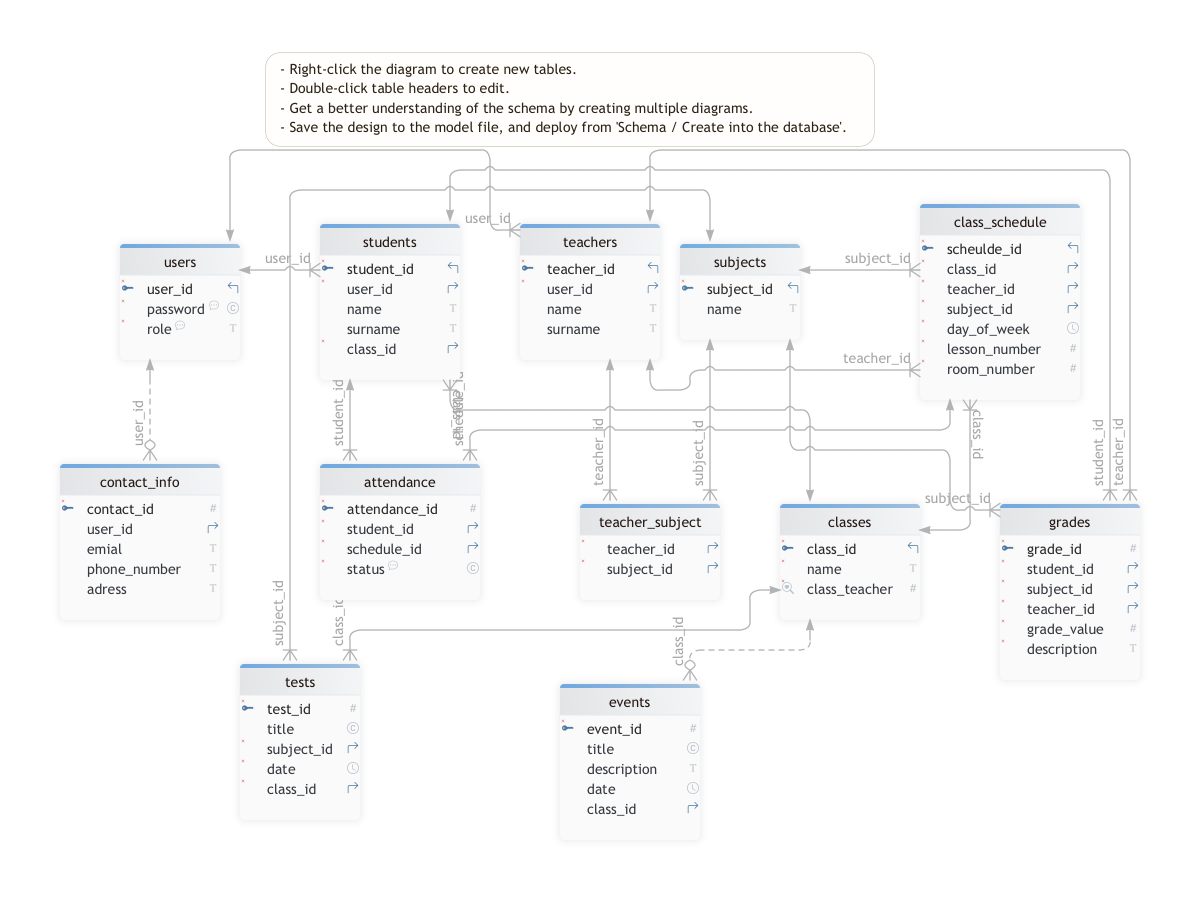
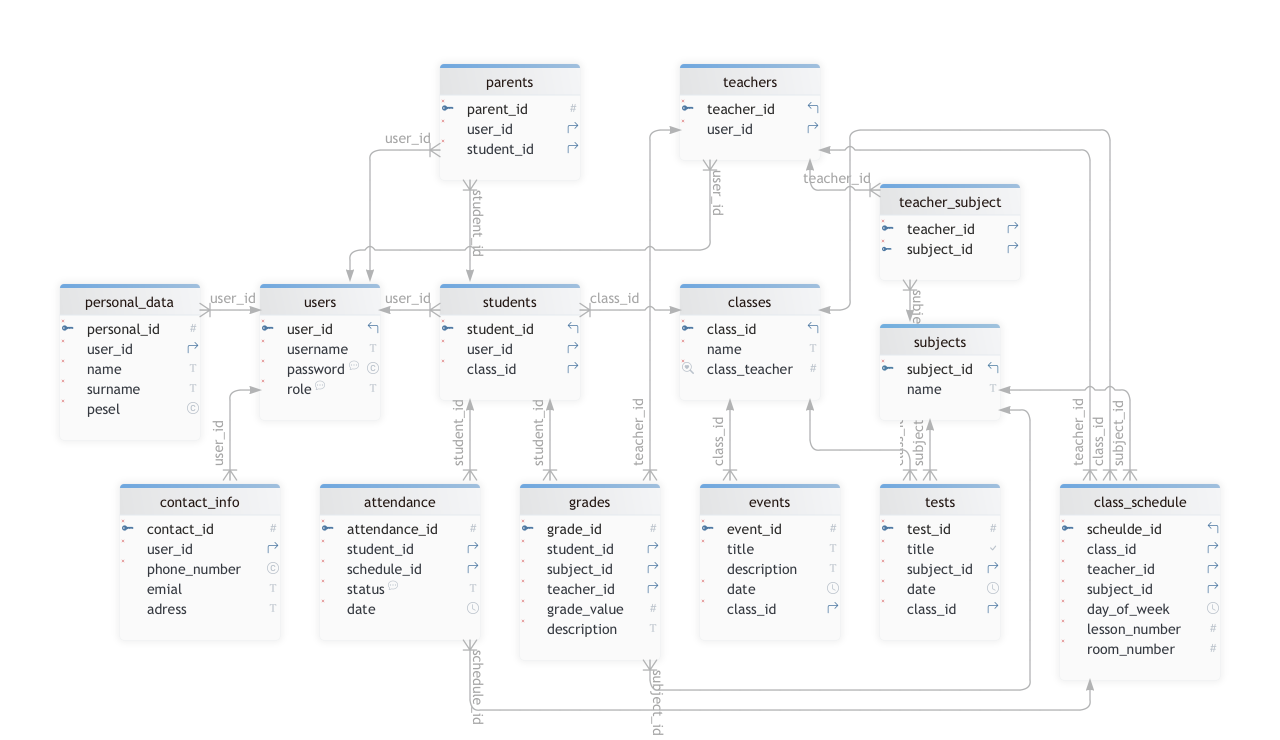
update db visualization

Changed region(s): [[0.0308, 0.0622, 0.9558, 0.9635], [0.37, 0.9014, 0.4008, 0.9635], [0.3392, 0.8703, 0.37, 0.9014]]

diff --git a/backend/src/main/java/com/egradebook/backend/dto/StudentRegistrationRequest.java b/backend/src/main/java/com/egradebook/backend/dto/StudentRegistrationRequest.java
@@ -1,0 +1,4 @@
+package com.egradebook.backend.dto;
+
+public class StudentRegistrationRequest {
+}
